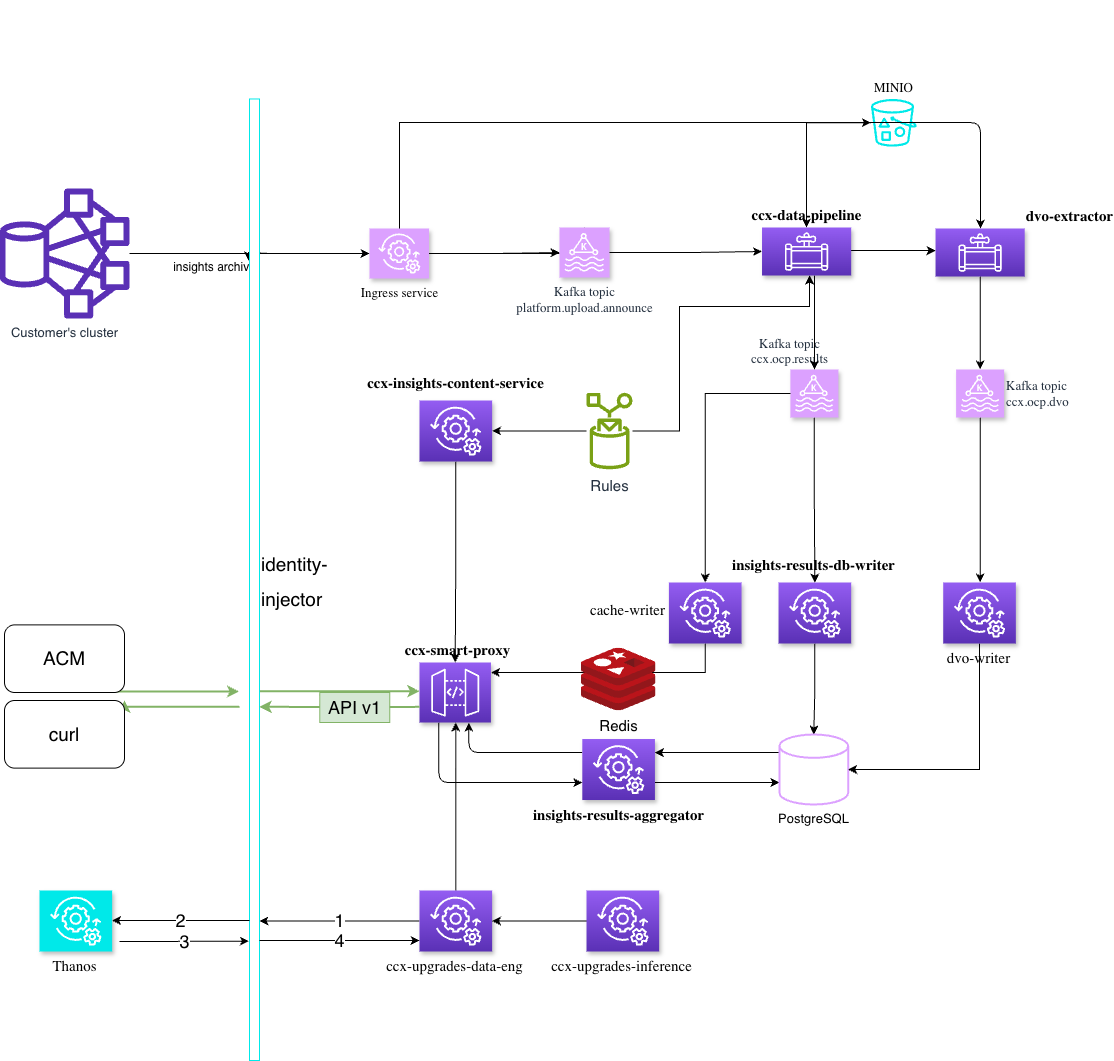
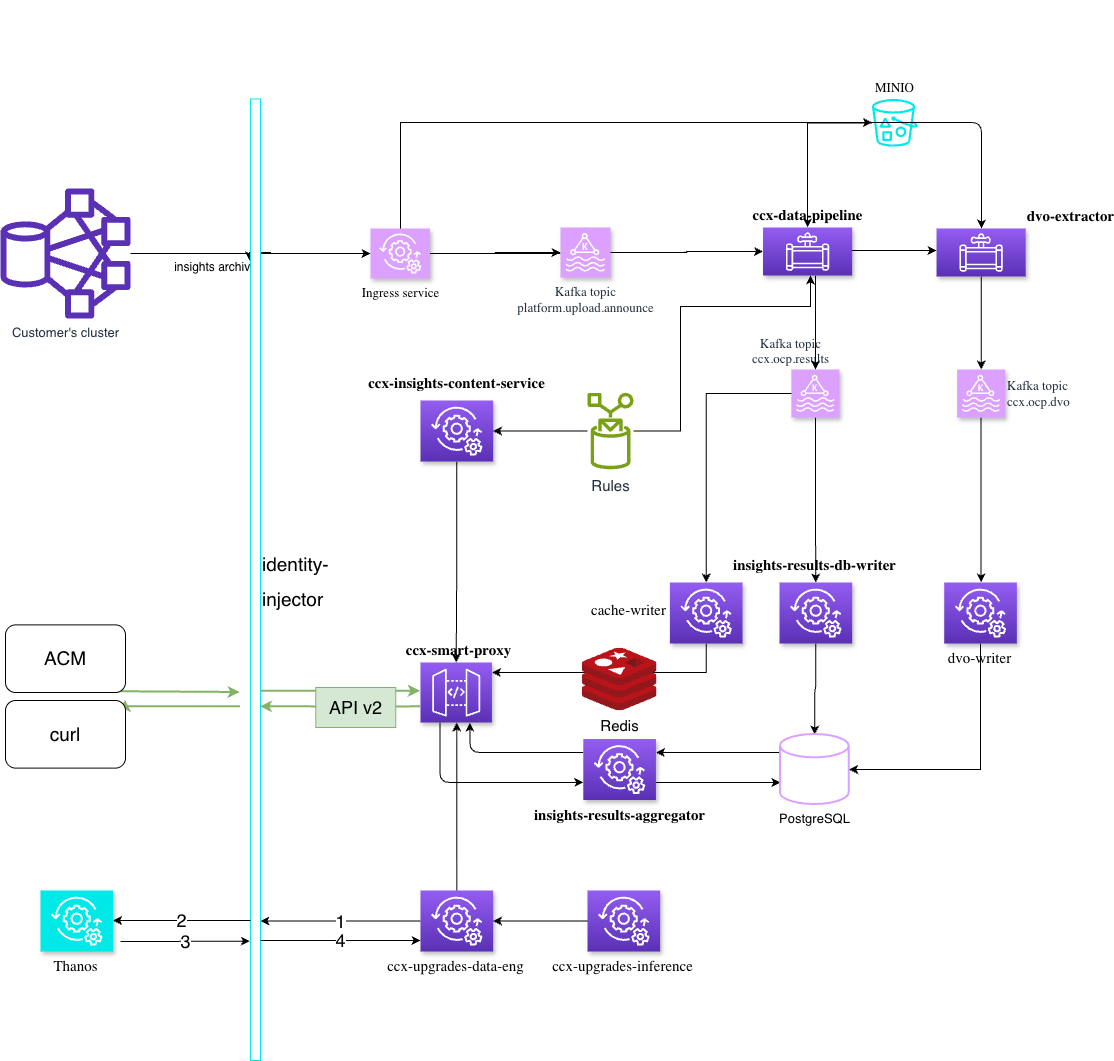
Fix readme and docs leftovers, version of API, fix images and nexus urls

diff --git a/microservices/test_upload.py b/microservices/test_upload.py
@@ -8,8 +8,7 @@ Setup:
     pip install -r requirements.txt
 
     # Install molodec
-    export PIP_INDEX_URL=https://repository.engineering.redhat.com/nexus/repository/insights-qe/simple
-    pip install -U molodec
+    pip install -U molodec --index-url https://nexus.corp.redhat.com/repository/obsint-pypi/simple
 
 Usage:
     python test_upload.py upload https://$INGRESS_URL

diff --git a/microservices/README.md b/microservices/README.md
@@ -250,7 +250,7 @@ strimzi-cluster-operator-6c84667cb8-2n9f9    1/1     Running   0          5m59s
 
 ### Expose Services
 
-To test the data pipeline, expose the ingress and aggregator services:
+To test the data pipeline, expose the ingress and smart-proxy services:
 
 ```bash
 # Expose ingress for archive uploads
@@ -259,22 +259,16 @@ oc create route edge ingress \
   --port=3000 \
   -n edp-processing
 
-# Expose aggregator for querying results
-oc create route edge aggregator \
-  --service=aggregator \
-  --port=8082 \
-  -n edp-processing
-
-# Expose smart-proxy
+# Expose smart-proxy for querying results
 oc create route edge smart-proxy \
   --service=smart-proxy \
   --port=8080 \
   -n edp-processing
 ```
 
-### Option 1: Manual Upload Test Archive
+### Option 1: Manual Test Upload (Quick Testing)
 
-For quick testing, you can manually upload a test archive:
+Upload a test archive using a Python script to verify the pipeline works:
 
 ```bash
 # Setup Python environment (first time only)
@@ -283,8 +277,7 @@ source venv/bin/activate
 pip install -r requirements.txt
 
 # Install molodec for generating test archives
-export PIP_INDEX_URL=https://repository.engineering.redhat.com/nexus/repository/insights-qe/simple
-pip install -U molodec
+pip install -U molodec --index-url https://nexus.corp.redhat.com/repository/obsint-pypi/simple
 
 # Upload test archive
 INGRESS_URL=$(oc get route ingress -n edp-processing -o jsonpath='{.spec.host}')
@@ -298,16 +291,16 @@ Status Code: 202
 ✅ Archive uploaded successfully!
 ```
 
-### Option 2: Configure Local Insights Pipeline
+### Option 2: Use insights-operator
 
-This option configures the insights pipeline to use your local EDP stack instead of Red Hat's cloud services.
+Configure the cluster's insights-operator to automatically send real cluster data to the On prem solution instead of console.redhat.com.
 
-**Basic pipeline** (works on any OpenShift cluster):
-1. **insights-operator** → uploads cluster data to local **ingress:3000**
-2. Processing pipeline → processes the data and stores in database
+**Basic setup** (works on any OpenShift cluster):
+1. Configure **insights-operator** to upload to your EDP **ingress:3000**
+2. insights-operator automatically collects and uploads cluster data every 2 hours by default
 
-**Full pipeline with insights-client** (requires ACM):
-3. **insights-client** → fetches results from **identity-injector:8080** → **smart-proxy:8080** → **aggregator:8082** and creates PolicyReports
+**Full setup with ACM** (requires ACM installed):
+3. Configure **insights-client** to fetch processed results from **smart-proxy:8080** and create PolicyReports
 
 #### Step 1: Ingress and Identity-Injector Configuration
 
@@ -514,17 +507,6 @@ oc logs -n edp-processing deployment/db-writer --since=3h | grep "processing mes
 # "cluster":"00ff20e8-2326-4373-bce0-194ec01a59d1"
 # "issues found":0  <- This is normal for a healthy cluster!
 # "message":"Stored info report"
-```
-
-### Query Results from Aggregator
-
-```bash
-# Get the aggregator URL
-AGGREGATOR_URL=$(oc get route aggregator -n edp-processing -o jsonpath='{.spec.host}')
-
-# Query cluster reports (replace with your test cluster ID)
-CLUSTER_ID="9f1511c6-6ef4-48ef-8fe9-e6dfea7076f0"
-curl -sk "https://$AGGREGATOR_URL/api/v1/organizations/1/clusters/$CLUSTER_ID/reports" | jq
 ```
 
 ### Query Results from Smart Proxy